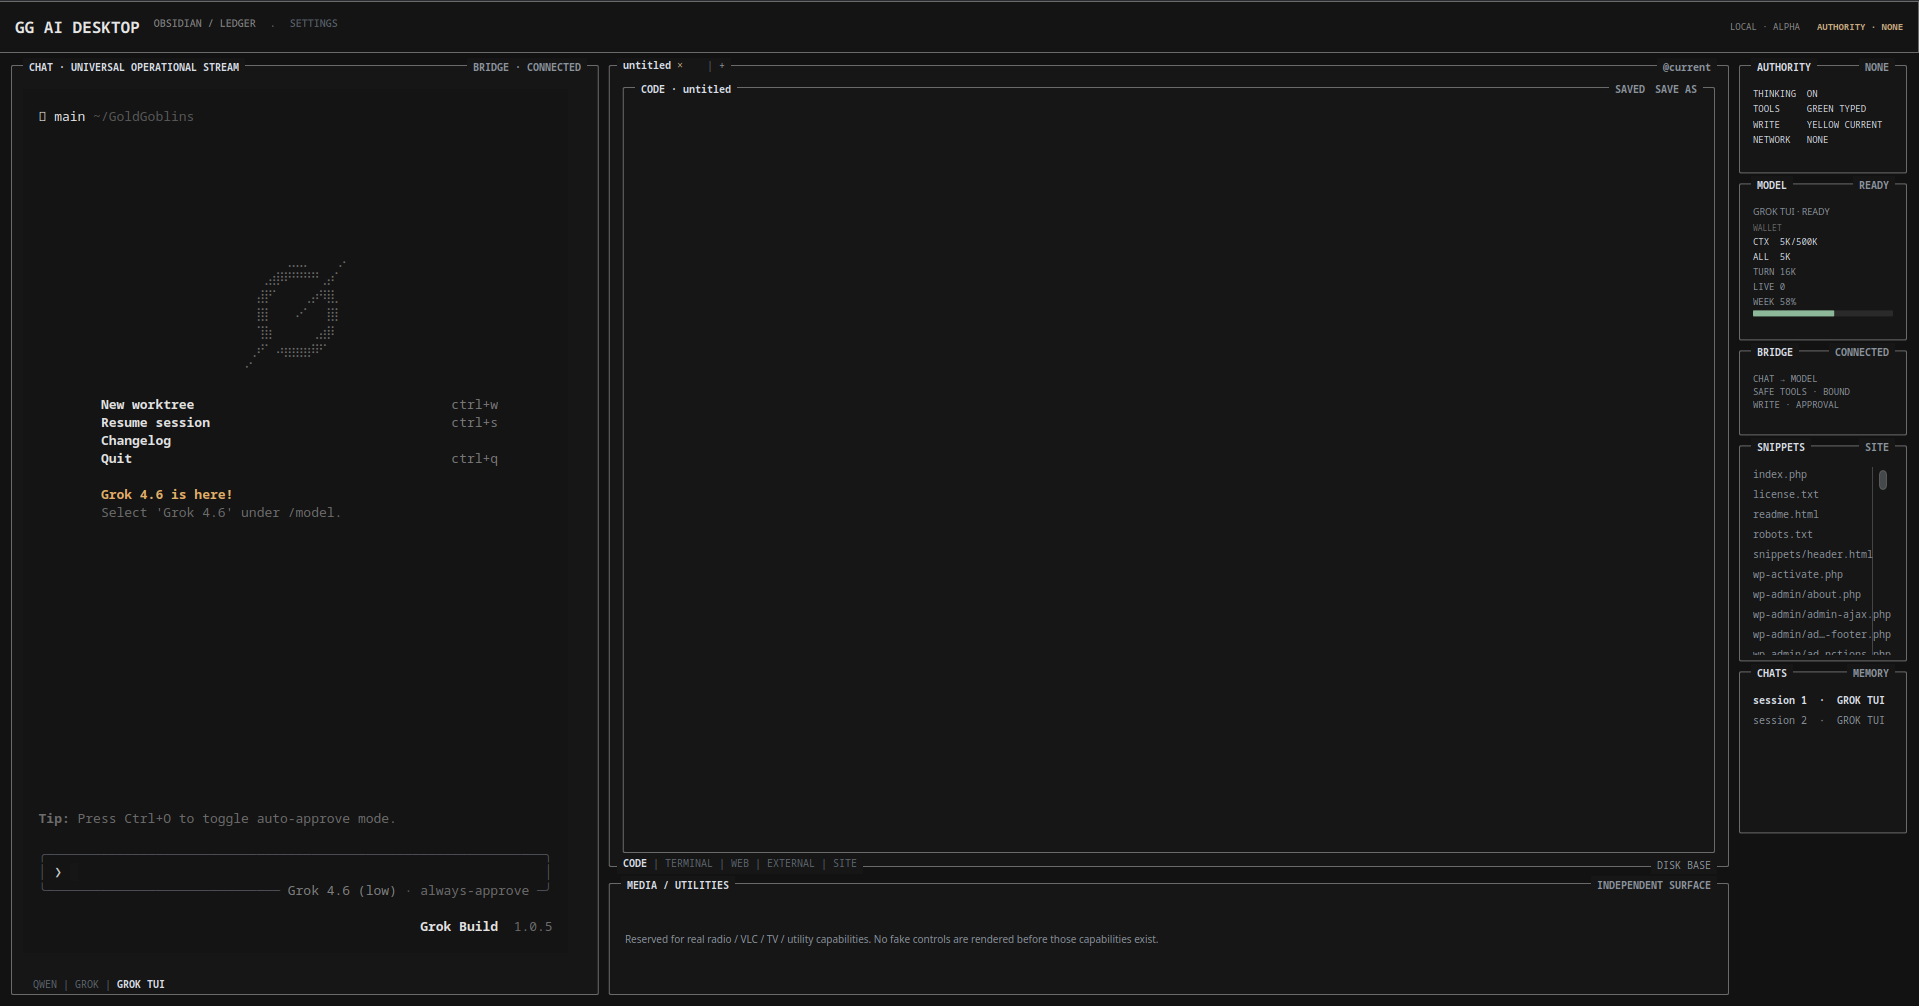
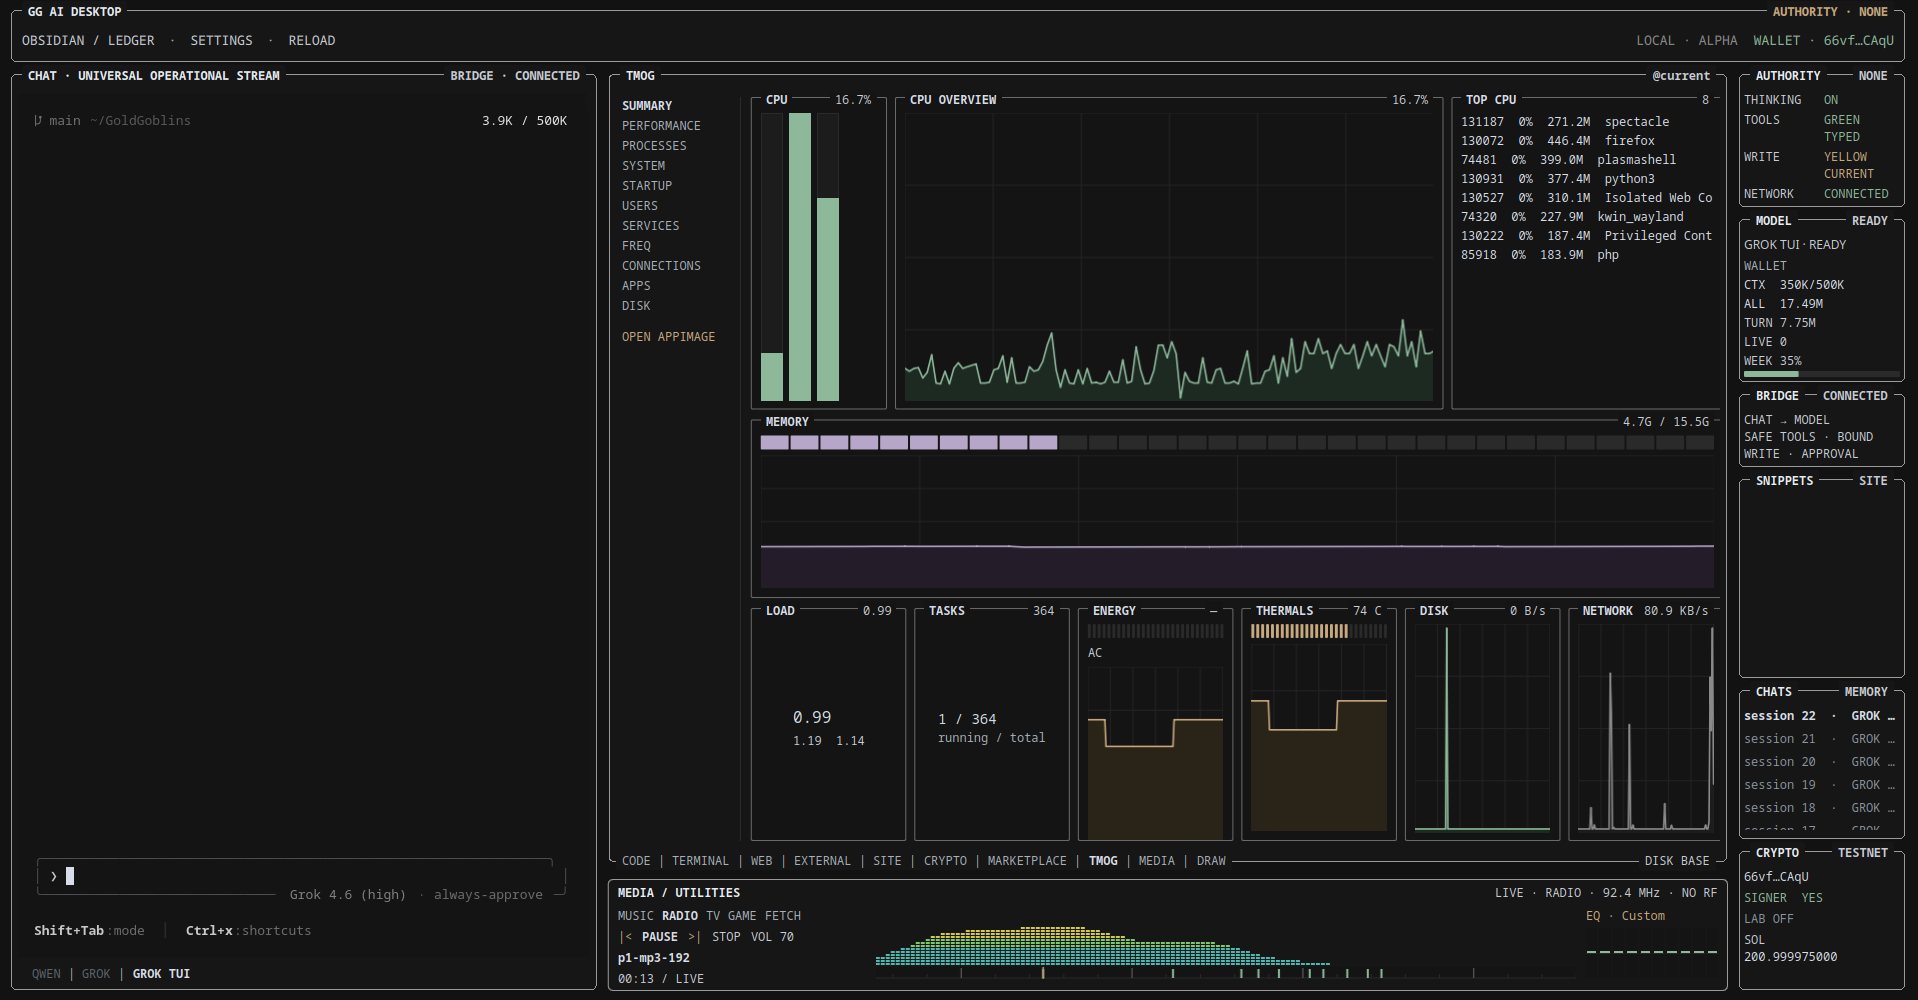
[DESKTOP] Replace GitHub screenshot with current UI
docs/gg-ai-desktop.png now shows the 4 Sep drop: TMOG, live spectrum, FM dial, MARKETPLACE, MEDIA/UTILITIES, CRYPTO and GROK TUI.

diff --git a/README.md b/README.md
@@ -31,6 +31,8 @@ What this patch changes on top of that:
 
 **MARKETPLACE** sits between CRYPTO and TMOG. Buffer marks on frames that are actually waiting.
 
+**Screenshot.** `docs/gg-ai-desktop.png` is this drop: TMOG 60 Hz meters, live spectrum, FM dial, MARKETPLACE, MEDIA/UTILITIES, CRYPTO, GROK TUI.
+
 Unchanged: GROK TUI as motor, no GGUF in git, ACTION_AUTHORITY NONE, network NONE. Python host edits still need a desktop restart; QML often RELOAD.
 
 ## Patch notes · 2026-09-02 · lag pass
@@ -76,7 +78,7 @@ What this patch adds on top of that:
 
 **Shell load.** Startup walks the real QML dependency graph. No fake timer, no unrelated vendor dump in the load queue. RELOAD still uses `shellNonce`.
 
-Unchanged: GROK TUI as motor, no GGUF in git, no `/shell` or `/exec`, network authority NONE, ACTION_AUTHORITY NONE. The screenshot is still the 27 Aug drop; the running program is this patch.
+Unchanged: GROK TUI as motor, no GGUF in git, no `/shell` or `/exec`, network authority NONE, ACTION_AUTHORITY NONE.
 
 ## Control & Bootstrap Plane v1
 
